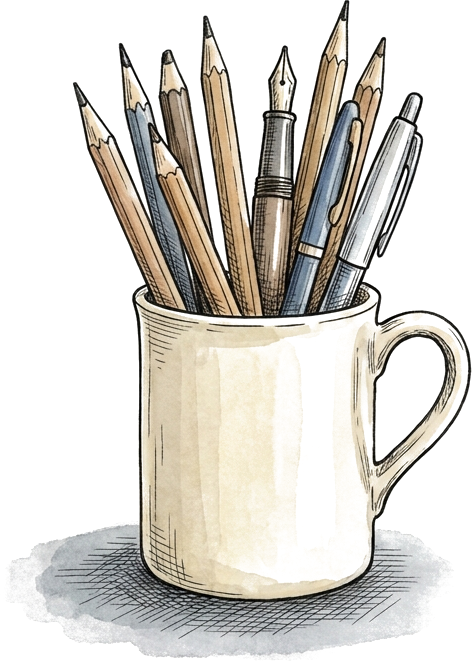
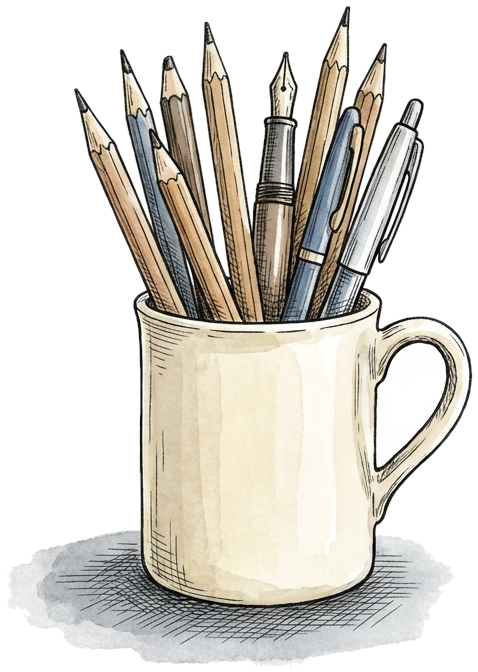
Desk cleanup: reverse page-turn on back-to-today; solid clutter cuts; bigger phone with pop; flashcard mixed deck
- turnTo(l,r,back): 'back to today' flips the page the other way
- _clutter_solidify.py: flood-fill paper from borders, solid interiors,
  soft fade only on shadow-wash fringes — fixes eraser plate outline and
  translucent mug; CSS widths recalibrated to new fills
- phone 330->400px, drop shadow, hover lift, screen brighten, unread dot
- flashcards: 3-card scatter, click flips Q->A then deals next subject —
  the future interleaved-practice entry point; draggable like the rest

Changed region(s): [[0.089, 0.0, 1.0, 0.9985], [0.6229, 0.5446, 0.6525, 0.6657], [0.5932, 0.6657, 0.6229, 0.7262]]

diff --git a/design-lab/dash-desk3.html b/design-lab/dash-desk3.html
@@ -99,6 +99,9 @@
   .turn .face.back{transform:rotateY(180deg);border-radius:9px 0 0 9px;background:linear-gradient(to right,var(--paper) 88%,#efe9db 100%)}
   .book.turning .turn{opacity:1;animation:pageturn .62s var(--ease) forwards}
   @keyframes pageturn{from{transform:rotateY(0)}to{transform:rotateY(-178deg)}}
+  /* going back to today flips the page the other way */
+  .book.turningback .turn{opacity:1;animation:pageturnback .62s var(--ease) forwards}
+  @keyframes pageturnback{from{transform:rotateY(-178deg)}to{transform:rotateY(0)}}
   .tabs{position:absolute;right:-30px;top:26px;bottom:26px;display:flex;flex-direction:column;gap:4px;width:30px;z-index:4}
   .tab{flex:1;min-height:0;width:30px;border-radius:0 6px 6px 0;
     background:linear-gradient(to right,color-mix(in srgb,var(--tc) 78%,#000) 0,var(--tc) 26%,color-mix(in srgb,var(--tc) 88%,#fff) 100%);
@@ -129,11 +132,20 @@
 
   /* ============ the DRAWN phone: an object plate with a live screen set
      into its glass. The wrapper is inert; only the screen takes pointers. */
-  .phonewrap{position:absolute;right:clamp(9rem,13vw,14rem);top:31%;width:330px;pointer-events:none;z-index:2}
-  .phonewrap img{width:100%;display:block}
+  .phonewrap{position:absolute;right:clamp(8rem,12vw,13rem);top:27%;width:400px;pointer-events:none;z-index:2;
+    transition:transform .25s var(--ease)}
+  .phonewrap:has(.screen:hover){transform:translateY(-4px) rotate(-.4deg)}
+  .phonewrap img{width:100%;display:block;filter:drop-shadow(5px 9px 11px rgba(56,40,18,.26))}
+  /* unread dot: pinned to the screen's top-right corner (screen is %-placed) */
+  .phonewrap .dot{position:absolute;left:62%;top:19.4%;width:14px;height:14px;border-radius:50%;
+    background:#b3402f;border:2px solid #f7f3ea;box-shadow:0 1px 3px rgba(56,40,18,.3);
+    animation:dotpulse 2.8s ease-in-out infinite}
+  @keyframes dotpulse{0%,100%{transform:scale(1)}50%{transform:scale(1.22)}}
+  @media (prefers-reduced-motion:reduce){.phonewrap .dot{animation:none}}
   .phonewrap .screen{position:absolute;left:35.9%;top:20.6%;width:27.4%;height:58.2%;border-radius:11px;overflow:hidden;
-    pointer-events:auto;cursor:pointer;border:none;padding:0;
+    pointer-events:auto;cursor:pointer;border:none;padding:0;transition:filter .2s;
     background:#14120e var(--pshot,none) center/cover no-repeat}
+  .phonewrap .screen:hover{filter:brightness(1.08)}
   .phonewrap .screen:focus-visible{outline:2px solid var(--anchor);outline-offset:3px}
   .phonewrap .screen::after{content:"";position:absolute;inset:0;pointer-events:none;
     background:linear-gradient(115deg,rgba(255,253,244,.16) 0%,rgba(255,253,244,.05) 24%,transparent 42%)}
@@ -201,11 +213,29 @@
   .clutter img{display:block;width:100%;filter:drop-shadow(4px 6px 7px rgba(56,40,18,.24))}
   /* widths MEASURED from each plate's solid pixels (alpha>=200 bbox), not
      guessed: css_w = real_cm × 11px/cm × img_w ÷ solid_extent */
-  .clutter.c-pencil{width:141px;right:25%;top:8%;transform:rotate(14deg)}   /* 18cm, fill .97 */
-  .clutter.c-pen{width:193px;left:44%;bottom:5%;transform:rotate(-22deg)}    /* 13cm, fill .52 — the padded plate */
+  /* widths = target visible px / fill(w) of the SOLIDIFIED cuts (_clutter_solidify.py) */
+  .clutter.c-pencil{width:140px;right:25%;top:8%;transform:rotate(14deg)}   /* 18cm, fill .98 */
+  .clutter.c-pen{width:102px;left:44%;bottom:5%;transform:rotate(-22deg)}    /* 13cm, fill .98 — plate no longer padded */
   .clutter.c-high{width:85px;right:4.5%;top:47%;transform:rotate(-9deg)}     /* 11cm, fill 1.0 */
-  .clutter.c-eraser{width:63px;left:13.5%;bottom:3.5%;transform:rotate(9deg)}/* 5.5cm, fill .96 */
-  .clutter.c-mug{width:134px;right:1.5%;top:24%}                             /* 17cm tall, fill 1.0 */
+  .clutter.c-eraser{width:42px;left:13.5%;bottom:3.5%;transform:rotate(9deg)}/* 5.5cm, fill .98 */
+  .clutter.c-mug{width:138px;right:1.5%;top:24%}                             /* 17cm tall, fill .97 */
+
+  /* flashcards: a loose mixed deck — the door to interleaved practice.
+     Click flips Q -> A; next click deals the next card (different subject). */
+  .cards{position:absolute;left:24.5%;bottom:5.5%;width:158px;height:106px;background:none;border:none;padding:0;
+    cursor:pointer;z-index:2;transform:rotate(-3deg);perspective:520px}
+  .cards .fc{position:absolute;inset:0;background:var(--paper);border:1px solid var(--line);border-radius:6px;
+    box-shadow:3px 5px 9px rgba(56,40,18,.16)}
+  .cards .fc.u1{transform:rotate(6.5deg) translate(9px,5px)}
+  .cards .fc.u2{transform:rotate(-7.5deg) translate(-8px,2px)}
+  .cards .fc.top{display:flex;flex-direction:column;justify-content:center;gap:.25rem;padding:.55rem .85rem;text-align:left;
+    border-left:4px solid var(--fcc,#a24d43);transition:transform .16s ease-in}
+  .cards .q{font-family:var(--hand);font-size:1.08rem;line-height:1.12;color:var(--ink)}
+  .cards .subj{font-size:.58rem;font-weight:700;letter-spacing:.07em;text-transform:uppercase;color:var(--mut)}
+  .cards:hover .fc.top{transform:translateY(-3px)}
+  .cards:focus-visible{outline:2px solid var(--anchor);outline-offset:4px}
+  .cards .fchint{position:absolute;left:50%;bottom:-1.5rem;transform:translateX(-50%);
+    font-family:var(--hand);font-size:.95rem;color:#6b5c41;white-space:nowrap}
 
   /* draggables */
   .drg{touch-action:none;user-select:none;-webkit-user-select:none}
@@ -268,6 +298,7 @@
       <span class="pscrim"></span>
       <span class="plab"><b>Shorts</b><small id="shortsSub">today’s 20</small></span>
     </button>
+    <span class="dot" aria-hidden="true"></span>
   </div>
 
   <button class="pad" id="pad" aria-label="New sticky note"><span>＋ new note</span></button>
@@ -277,6 +308,16 @@
   <div class="clutter c-high" id="cl3"><img src="assets/lw/night-highlighter-cut.png" alt=""></div>
   <div class="clutter c-eraser" id="cl4"><img src="assets/lw/night-eraser-cut.png" alt=""></div>
   <div class="clutter c-mug" id="cl5"><img src="assets/lw/night-pen-mug-cut.png" alt=""></div>
+
+  <button class="cards" id="cards" aria-label="Flashcards — a mixed deck. Click to flip.">
+    <span class="fc u1"></span>
+    <span class="fc u2"></span>
+    <span class="fc top" id="fcTop">
+      <span class="q" id="fcText"></span>
+      <span class="subj" id="fcSubj"></span>
+    </span>
+    <span class="fchint">mixed deck ↻</span>
+  </button>
 
   <button class="radio" id="radio" aria-label="Revision Radio">
     <span class="art">
@@ -355,14 +396,15 @@ const pgL=document.getElementById('pgL'), pgR=document.getElementById('pgR'), bo
 let current='today';
 function setSpread(l,r){ pgL.innerHTML=l; pgR.innerHTML=r; const t=document.getElementById('today');
   if(t) t.textContent=new Date().toLocaleDateString('en-GB',{weekday:'long',day:'numeric',month:'long'}); }
-function turnTo(l,r){
+function turnTo(l,r,back){
   if(matchMedia('(prefers-reduced-motion: reduce)').matches){ setSpread(l,r); return; }
-  book.classList.remove('turning'); void book.offsetWidth;
-  book.classList.add('turning');
+  const cls=back?'turningback':'turning';
+  book.classList.remove('turning','turningback'); void book.offsetWidth;
+  book.classList.add(cls);
   setTimeout(()=>setSpread(l,r),300);
-  setTimeout(()=>book.classList.remove('turning'),650);
+  setTimeout(()=>book.classList.remove(cls),650);
 }
-function goToday(){ current='today'; turnTo(TODAY_L,TODAY_R); markTabs(); }
+function goToday(){ current='today'; turnTo(TODAY_L,TODAY_R,true); markTabs(); }
 function goSubject(i){ current=i; const [l,r]=subjSpread(SUBJECTS[i]); turnTo(l,r); markTabs(); }
 function markTabs(){ [...document.querySelectorAll('.tab')].forEach((t,i)=>t.setAttribute('aria-current',String(current===i))); }
 const tabs=document.getElementById('tabs');
@@ -521,6 +563,31 @@ makeDraggable(document.getElementById('phonewrap'),'phone',document.getElementBy
 makeDraggable(document.getElementById('radio'),'radio');
 makeDraggable(document.getElementById('pad'),'pad');
 ['cl1','cl2','cl3','cl4','cl5'].forEach(id=>makeDraggable(document.getElementById(id),id));
+
+/* ---------- flashcards: the interleaved mixed deck ---------- */
+const FC=[
+  {slug:'history', q:'When was the NHS founded?', a:'1948'},
+  {slug:'science', q:'Speed = ?', a:'distance ÷ time'},
+  {slug:'lit', q:'Who was Scrooge’s business partner?', a:'Jacob Marley'},
+  {slug:'geog', q:'The three types of rainfall?', a:'Relief · frontal · convectional'},
+  {slug:'maths', q:'In y = mx + c, what is m?', a:'The gradient'},
+];
+const cardsEl=document.getElementById('cards'), fcTop=document.getElementById('fcTop'),
+      fcText=document.getElementById('fcText'), fcSubj=document.getElementById('fcSubj');
+let fci=0, fcA=false;
+function fcRender(){
+  const f=FC[fci], s=SUBJECTS.find(x=>x.slug===f.slug);
+  cardsEl.style.setProperty('--fcc', s?s.c:'#a24d43');
+  fcText.textContent=fcA?f.a:f.q;
+  fcSubj.textContent=(s?s.name:f.slug)+(fcA?' — answer':'');
+}
+cardsEl.addEventListener('click',()=>{ if(dragBlockClick) return;
+  fcTop.style.transform='rotateY(88deg)';
+  setTimeout(()=>{ if(fcA){ fci=(fci+1)%FC.length; fcA=false; } else fcA=true;
+    fcRender(); fcTop.style.transform=''; },160);
+});
+fcRender();
+makeDraggable(cardsEl,'cards');
 
 /* ---------- stickies: edit in place, peel new ones, bin them ---------- */
 let stickyStore={}; try{ stickyStore=JSON.parse(localStorage.getItem(SKEY))||{}; }catch(e){}

diff --git a/scripts/_clutter_solidify.py b/scripts/_clutter_solidify.py
@@ -1,0 +1,70 @@
+"""Re-cut the desk clutter plates with SOLID silhouettes.
+The old alpha-from-darkness matte made pale bodies translucent (mug) and the
+eraser plate was never cut at all. This does it properly:
+  crop 5% (kills drawn frames) -> flood paper from the borders (connected
+  components of paper-like tone) -> object = everything else, fully opaque ->
+  distance-based softening ONLY in the outer boundary band so wash shadows
+  still fade out -> despeckle -> trim to bbox -> overwrite {name}-cut.png.
+Prints each cut's solid-fill fraction so CSS widths can be recalibrated
+(visible px = css width x fill).
+"""
+import os
+import numpy as np
+from PIL import Image
+from scipy import ndimage
+
+ROOT = os.path.dirname(os.path.dirname(os.path.abspath(__file__)))
+LW = os.path.join(ROOT, "design-lab", "assets", "lw")
+
+PLATES = ["night-pencil", "night-fountain-pen", "night-highlighter",
+          "night-eraser", "night-pen-mug"]
+THR = 30.0        # paper-likeness tolerance (euclidean RGB)
+BAND = 6          # px of boundary band that may fade (wash shadows)
+
+for name in PLATES:
+    src = os.path.join(LW, name + ".png")
+    im = Image.open(src).convert("RGB")
+    w, h = im.size
+    cx, cy = int(w * .05), int(h * .05)
+    im = im.crop((cx, cy, w - cx, h - cy))
+    a = np.asarray(im).astype(np.float32)
+    H, W = a.shape[:2]
+
+    ring = np.concatenate([a[:12].reshape(-1, 3), a[-12:].reshape(-1, 3),
+                           a[:, :12].reshape(-1, 3), a[:, -12:].reshape(-1, 3)])
+    paper = np.median(ring, axis=0)
+    dist = np.sqrt(((a - paper) ** 2).sum(axis=2))
+    paper_like = dist < THR
+
+    # background = paper-like regions connected to the border
+    lab, n = ndimage.label(paper_like)
+    border_labels = np.unique(np.concatenate([lab[0], lab[-1], lab[:, 0], lab[:, -1]]))
+    bg = np.isin(lab, border_labels[border_labels != 0])
+    mask = ~bg
+
+    # despeckle: drop tiny floating specks of "object"
+    lab2, n2 = ndimage.label(mask)
+    sizes = ndimage.sum(mask, lab2, range(1, n2 + 1))
+    keep = np.zeros(n2 + 1, bool); keep[1:] = sizes >= 120
+    mask = keep[lab2]
+
+    # solid interior; distance-fade only in the outer band (soft shadow edges)
+    interior = ndimage.binary_erosion(mask, iterations=BAND)
+    soft = np.clip(dist / THR, 0, 1)
+    alpha = np.where(interior, 1.0, np.where(mask, soft * (3 - 2 * soft), 0.0))
+    alpha = ndimage.gaussian_filter(alpha, 1.0) * mask   # AA without halo spread
+    alpha8 = (np.clip(alpha, 0, 1) * 255).astype(np.uint8)
+
+    ys, xs = np.where(alpha8 > 8)
+    pad = 6
+    y0, y1 = max(ys.min() - pad, 0), min(ys.max() + pad, H)
+    x0, x1 = max(xs.min() - pad, 0), min(xs.max() + pad, W)
+    rgba = np.dstack([a.astype(np.uint8), alpha8])[y0:y1, x0:x1]
+    out = os.path.join(LW, name + "-cut.png")
+    Image.fromarray(rgba, "RGBA").save(out)
+
+    solid = rgba[:, :, 3] > 128
+    xs2 = np.where(solid.any(axis=0))[0]
+    fill = (xs2.max() - xs2.min() + 1) / rgba.shape[1]
+    print(f"{name}:  {rgba.shape[1]}x{rgba.shape[0]}  fill(w)={fill:.2f}")
+print("done")
